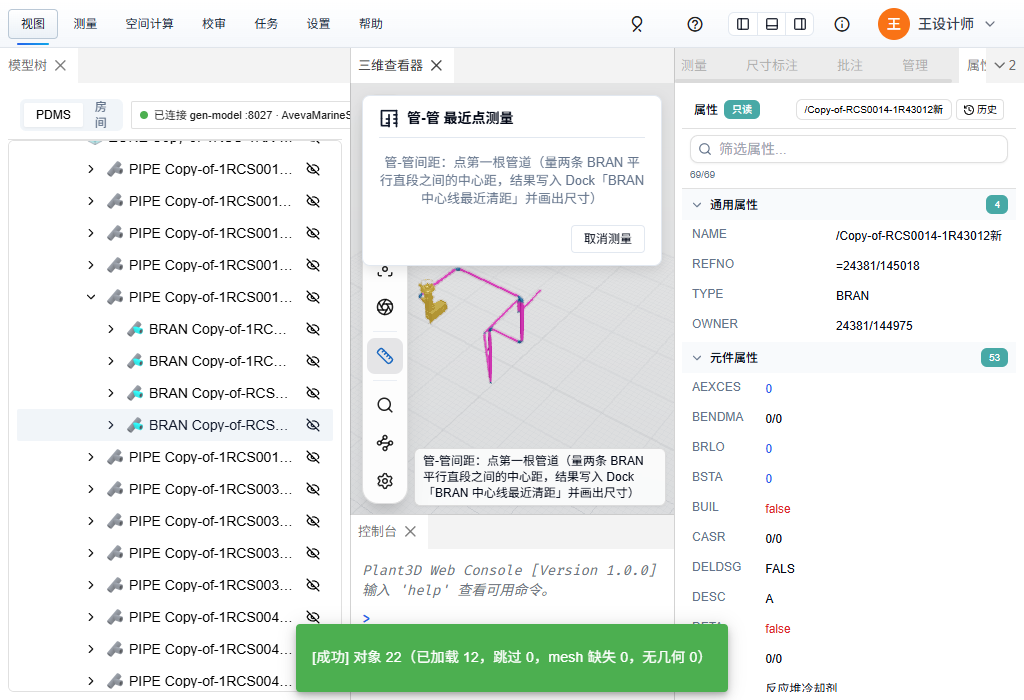
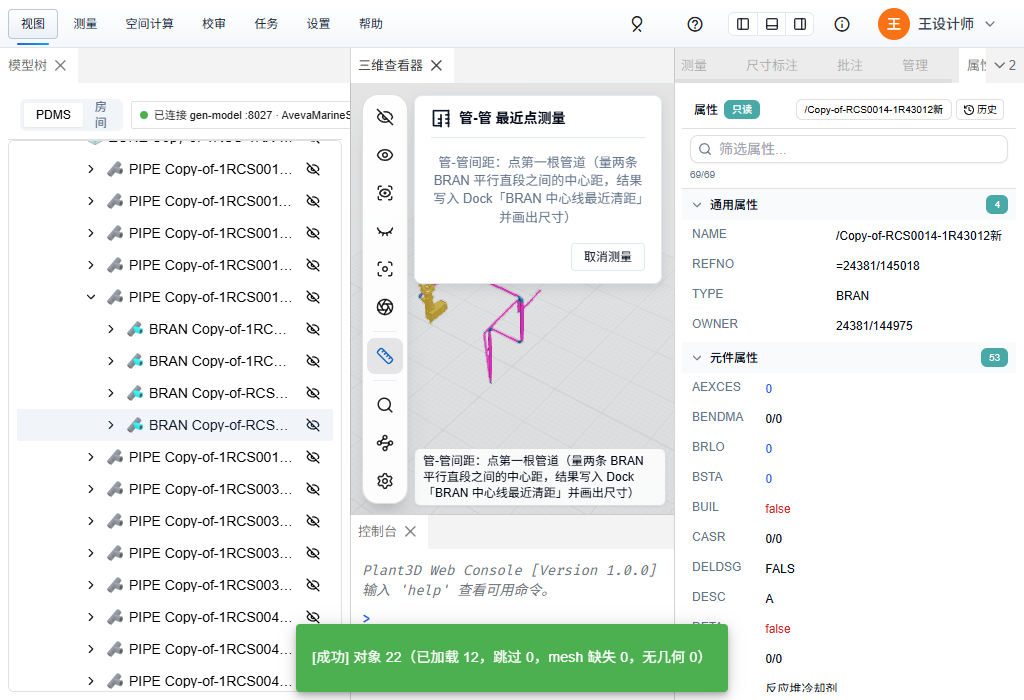
fix(viewer): 测量向导卡改贴左侧工具栏右边（left 64 / max-width 360），cua 真机验收发现顶部居中会和空间查询抽屉重叠 219px、卡右侧按钮点不到——现在 64→424 落在工具栏(右57)与抽屉(左433)之间，min-width 随超窄容器缩不越右界；#80/#81/#82 共处一屏回归（README §2.5/§2.6）、Playwright 两视口不裁、CHANGELOG（细化 #82）

Changed region(s): [[0.3438, 0.12, 0.6562, 0.42]]

diff --git a/src/components/tools/MeasurementWizard.vue b/src/components/tools/MeasurementWizard.vue
@@ -37,21 +37,22 @@ function cancel() {
 
 <style scoped>
 /*
- * 顶部居中挂在查看器容器（.viewer-panel-container，position: relative; overflow: hidden）里：
- * left/right 各留 12px、width: fit-content + margin auto 居中，所以卡永远在容器里；宽度随 statusText
- * 长到 480px 就换行。以前没有 max-width，一句 70 字的提示把卡撑到 750px，再叠上宿主用内联
- * left: 12px 覆盖了 left 却没覆盖 translateX(-50%)，左半张卡整个画在容器外面被裁掉。
- * 位置只在这里定，宿主不要再用内联样式改 left / transform。
+ * 挂在查看器容器（.viewer-panel-container，position: relative; overflow: hidden）左上角、左侧竖排工具栏右边：
+ * left 64px = 工具栏 left 12px + 宽 48px + 4px 间隙（矮容器里工具栏顶到 y≈14，放 12px 会压住它顶上的按钮），
+ * right 12px 兜底、width: fit-content，所以卡永远在容器里、也不碰左侧工具栏。
+ * max-width 360px：右上角的空间查询 / 构件最近点抽屉在 right 56–60px、宽 336–340px，360 宽的卡从 64 起到 424，
+ * 常规视口（查看器 ≳820px 宽）刚好落在工具栏与抽屉之间；statusText 长就在这 360 里折两三行。
+ * 以前没有 max-width，一句 70 字的提示把卡撑到 750px，再叠上宿主用内联 left: 12px 覆盖了 left 却没覆盖
+ * translateX(-50%)，左半张卡整个画在容器外面被裁掉。位置只在这里定，宿主不要再用内联样式改 left / transform。
  */
 .measurement-wizard-card {
   position: absolute;
   top: 12px;
-  left: 12px;
+  left: 64px;
   right: 12px;
   width: fit-content;
-  min-width: min(300px, 100%);
-  max-width: 480px; /* 再宽会压到右上角的导航立方 */
-  margin: 0 auto;
+  min-width: min(300px, calc(100% - 76px)); /* 76 = left 64 + right 12，超窄容器里也不越右边界 */
+  max-width: 360px;
   z-index: 940;
   box-sizing: border-box;
   

diff --git a/docs/verification/viewer-overlay-container-clip-2026-09-22/README.md b/docs/verification/viewer-overlay-container-clip-2026-09-22/README.md
@@ -69,24 +69,37 @@ URL 直开：`spatial_refno=24381_145018&spatial_radius=3&spatial_radius_unit=m&
 
 顺手看到：`MeasurementWizard` 的向导卡在 825 px 宽的容器里左边被裁一截 → issue #82，见 §2.5。
 
-### 2.5 `MeasurementWizard` 向导卡左半张被裁（issue [#82](https://github.com/happyrust/plant3d-web/issues/82)）
+### 2.5 `MeasurementWizard` 向导卡左半张被裁 + 与抽屉相撞（issue [#82](https://github.com/happyrust/plant3d-web/issues/82)）
 
-不是容器窄的问题，任何宽度都裁：组件 scoped CSS 是 `left: 50%; transform: translateX(-50%)`（居中），宿主 `ViewerPanel` 用内联 `style="left: 12px"` 把它改到左上角，却没覆盖 `transform`，于是卡向左平移了自身一半；又没有 `max-width`，「管-管」那句 70 字的 statusText 把卡撑到 650–750 px，左半张画在容器外面被 `overflow: hidden` 裁掉，同时压住左侧工具栏顶上的按钮。
+**裁切**不是容器窄的问题，任何宽度都裁：组件 scoped CSS 是 `left: 50%; transform: translateX(-50%)`（居中），宿主 `ViewerPanel` 用内联 `style="left: 12px"` 把它改到左上角，却没覆盖 `transform`，于是卡向左平移了自身一半；又没有 `max-width`，「管-管」那句 70 字的 statusText 把卡撑到 650–750 px，左半张画在容器外面被 `overflow: hidden` 裁掉，同时压住左侧工具栏顶上的按钮。
 
-改法：位置只在组件里定——`top: 12px; left: 12px; right: 12px; width: fit-content; margin: 0 auto`（顶部居中，永远在容器里），`min-width: min(300px, 100%)`、`max-width: 480px`（再宽压到右上角导航立方）、正文 `overflow-wrap: anywhere`，`z-index: 940` 与其他浮层同层；宿主删掉内联 position / top / left / z-index。
+**相撞**：本轮 cua 真机验收时发现，先按上面「顶部居中」修，卡在 825 px 宽的查看器里居中到 172→652，而空间查询抽屉在 433→769——两者重叠 219 px，卡右侧的按钮压在抽屉上点不到。所以最终不放顶部居中，改成贴左侧工具栏右边。
 
-Playwright headless（dev `:3111` + `:8027`，工具栏「测量」→「管-管」，改前用内联样式回灌 `left: 12px + translateX(-50%)`、无 max-width，同页同容器）：
+改法（位置只在组件里定，宿主删掉内联 `style`）：`top: 12px; left: 64px`（= 工具栏 left 12 + 宽 48 + 4 间隙，不压工具栏）`; right: 12px; width: fit-content`（永远在容器里）`; min-width: min(300px, calc(100% - 76px))`（超窄容器不越右边界）`; max-width: 360px`（360 宽从 64 起到 424，常规视口 ≳820 px 刚好落在工具栏与右上抽屉之间）`;` 正文 `overflow-wrap: anywhere; z-index: 940`。
 
-| 视口 → 容器 | 改前 卡 left→right（宽） | 左边被裁 | 改后 卡 left→right（宽） | 居中偏差 | 文字行数 |
-| --- | --- | --- | --- | --- | --- |
-| 1366×768 → 350→1016（666） | 35→689（654） | **315 px** | 443→923（480） | 0 | 2 |
-| 1024×700 → 350→674（324） | 206→518（312） | **144 px** | 362→662（300） | 0 | 3 |
+Playwright headless（dev `:3111` + `:8027`，工具栏「测量」→「管-管」，无抽屉，改前用内联样式回灌 `left: 12px + translateX(-50%)`、无 max-width，同页同容器）：
 
-`pageerror` 0；「取消测量」两种状态都可命中（它在卡的右侧，裁的是左半张的标题与正文开头）。图：`wizard-01-before-1366x768.png` / `wizard-02-after-1366x768.png`、`wizard-01-before-1024x700.png` / `wizard-02-after-1024x700.png`。cua 那张 `cua-menu-02-after-pipe-to-pipe-click.png` 左上角就是改前的样子（825 px 容器）。
+| 视口 → 容器 | 改前 卡 left→right（宽） | 左边被裁 | 改后 卡 left→right（宽，容器内） | 文字行数 |
+| --- | --- | --- | --- | --- |
+| 1366×768 → 350→1016（666） | 35→689（654） | **315 px** | 414→774（360，✓） | 3 |
+| 1024×700 → 350→674（324） | 206→518（312） | **144 px** | 414→662（248，✓，随窄容器缩） | 4 |
+
+cua 真机（容器 825，空间查询抽屉同时开）：卡 64→424（360 宽）居中在工具栏右 57 与抽屉左 433 之间，`overlapsToolbar=false`、`overlapsDrawer=false`、「取消测量」`elementFromPoint` 命中。`pageerror` 0。图：`wizard-01-before-*.png`（改前左裁）/ `wizard-02-after-*.png`（改后无抽屉）/ `wizard-03-beside-open-drawer.png`（改后 + 抽屉并存，卡完整夹在中间）。
+
+## 2.6 三个修复共处一屏的回归（cua 真机，2026-09-22 二次拉起）
+
+同一台 Chromium、同一 1692×826 CSS 视口 / 825 px 查看器容器，一次连跑把 #80 / #81 / #82 串起来验证互不打架：
+
+1. URL 直开空间查询抽屉（`spatial_autorun`）→ 抽屉 `max-h-[calc(100%-7.5rem)]`、结果可滚到底（#80）。
+2. 点「测量」→ 菜单 `bottom-0` 向上翻、7 项全在容器内（#81 回归，图 `cua-menu-03-regression-flip-up.png`）。
+3. 点「管-管」→ 向导卡在**抽屉仍开**时落在工具栏与抽屉之间、不裁不撞、「取消测量」可点（#82，图 `wizard-03-beside-open-drawer.png`）。
+4. 点「构件最近点」→ `ObjectMeasureDrawer` `max-h-[calc(100%-9rem)]`、底边 475 < 容器底 499、正文可滚（#80，CDP 读数）。
+
+`pageerror` 0。（`ObjectMeasureDrawer` 的「结束测量」在 §2.1 的专项里已真点验证过；本回归里 cua 的滚轮事件没能落到该抽屉正文——是 cua `scroll` 在此窗口的坐标落点问题，非产品问题，故该抽屉滚到底的真点未在本回归复跑。）
 
 ## 3. 单测 / lint
 
-`npx vitest run src/components/spatial-query/SpatialQueryDrawer.test.ts src/composables/useDtxTools.objectMeasure.test.ts` → 2 文件 43 过；`npx eslint` 两个 `.vue` 0 问题；tailwindcss CLI 探针确认产出 `max-height: calc(100% - 7.5rem)` / `calc(100% - 9rem)`。
+`npx vitest run src/components/spatial-query/SpatialQueryDrawer.test.ts src/composables/useDtxTools.objectMeasure.test.ts src/utils/dropdownPlacement.test.ts` → 3 文件 49 过；`npx eslint` 触及的 `.vue` / `.ts` 0 问题（`ViewerPanel.vue` 只剩第 28 行既有那条 import 分组）；tailwindcss CLI 探针确认产出 `max-height: calc(100% - 7.5rem)` / `calc(100% - 9rem)`。
 
 ## 备注
 

diff --git a/CHANGELOG.md b/CHANGELOG.md
@@ -30,8 +30,8 @@
 
 - **最近点测量向导卡（`MeasurementWizard`）不再左半张被查看器容器裁掉：位置只在组件里定、顶部居中、限宽 480 px** (2026-09-22，issue [#82](https://github.com/happyrust/plant3d-web/issues/82)，#81 验收时顺手发现)
   - 组件 scoped CSS 是居中写法 `left: 50%; transform: translateX(-50%)`，宿主 `ViewerPanel` 却用内联 `style="left: 12px"` 把它挪到左上角——覆盖了 `left` 没覆盖 `transform`，卡向左平移了自身一半；又没有 `max-width`，「管-管」那句 70 字的提示把卡撑到 650–750 px，左半张（标题、图标、提示开头）画在 `overflow: hidden` 容器外面，还压住左侧工具栏顶上的按钮。任何容器宽度都裁：1366×768（容器 666）裁 315 px、1024×700（容器 324）裁 144 px。
-  - 现在组件自己定位：`top: 12px; left: 12px; right: 12px; width: fit-content; margin: 0 auto`（顶部居中、永远在容器里）、`min-width: min(300px, 100%)`、`max-width: 480px`（再宽压到右上角导航立方）、正文 `overflow-wrap: anywhere`、`z-index: 940` 与其他浮层同层；`ViewerPanel` 删掉那行内联 `style`。
-  - 验证：Playwright headless dev `:3111` + `:8027`，工具栏「测量」→「管-管」，改前内联回灌同页同容器对比——修后 1366×768 卡 443→923（480 宽）居中偏差 0、1024×700 卡 362→662（300 宽）居中偏差 0，两档都在容器内、`pageerror` 0；eslint `MeasurementWizard.vue` 0。图 `docs/verification/viewer-overlay-container-clip-2026-09-22/wizard-01-before-*.png` / `wizard-02-after-*.png`，README §2.5。
+  - 现在组件自己定位、宿主删掉内联 `style`：`top: 12px; left: 64px`（贴左侧工具栏右边、不压它）`; right: 12px; width: fit-content`（永远在容器里）`; min-width: min(300px, calc(100% - 76px))`（超窄容器不越右边界）`; max-width: 360px`、正文 `overflow-wrap: anywhere`、`z-index: 940`。不放顶部居中：cua 真机验收发现居中的卡在 825 px 查看器里会和右上的空间查询抽屉重叠 219 px、卡右侧按钮压在抽屉上点不到，改贴工具栏后 360 宽的卡从 64 到 424 刚好落在工具栏（右 57）与抽屉（左 433）之间。
+  - 验证：Playwright headless dev `:3111` + `:8027`，工具栏「测量」→「管-管」，改前内联回灌同页同容器对比——修后 1366×768 卡 414→774（360 宽）、1024×700 卡 414→662（248 宽、随窄容器缩）两档都在容器内不裁、`pageerror` 0；cua 真机（抽屉同时开）卡 64→424 不撞工具栏 / 抽屉、「取消测量」可点；eslint `MeasurementWizard.vue` 0。图 `docs/verification/viewer-overlay-container-clip-2026-09-22/wizard-01-before-*.png` / `wizard-02-after-*.png` / `wizard-03-beside-open-drawer.png`，README §2.5 + §2.6（#80/#81/#82 共处一屏的回归）。
 
 - **左侧工具栏「测量」下拉菜单在矮查看器里按剩余空间向上翻，不再被容器底边裁掉「管-墙/柱」「管-管」** (2026-09-22，issue [#81](https://github.com/happyrust/plant3d-web/issues/81)，#80 验收时顺手发现)
   - 菜单原来固定 `absolute left-full top-0` 从按钮顶往下开；工具栏 `top-1/2` 居中后「测量」按钮落在容器下半部，7 项 ≈ 217 px 的菜单在 416 px 高的容器里 `按钮顶 330 + 217 > 容器底 499`，末两项只露半行、点不到。它挂在按钮的 `.relative` 包裹里，百分比 `max-h` 只能相对那 36 px 解析，#80 那套「按容器算 `max-h`」对它无效。
